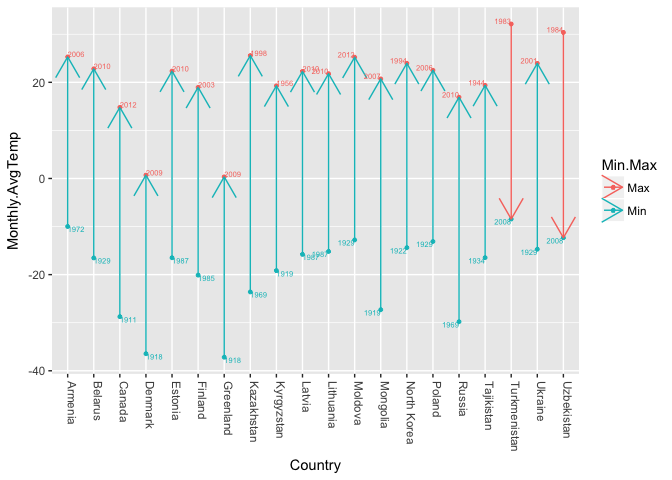
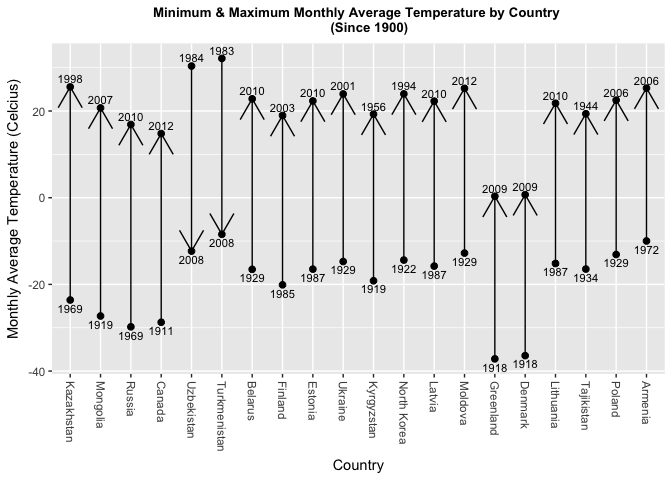
Q3i update: finalizing plot output

diff --git a/paper/CaseStudy2_Q3i.md b/paper/CaseStudy2_Q3i.md
@@ -8,11 +8,10 @@ Code used to download, tidy and merge the data
 
 ``` r
 dir<-getwd()
-#download the TEMP temp file and assign it to dataset name TEMPSubset
+#download the TEMP temp file and assign it to dataset name Temp_clean
 source(paste(dir,"/source/download_2.R",sep=""))
 #cleanup the data-turn the dates from strings to dates
 source(paste(dir,"/source/cleanup_2.R",sep=""))
-#source(paste(dir,"/source/merge_ED_GDP.R",sep=""))
 ```
 
 reformatting to generate top 20 temp diff between min and max (include more detail later)
@@ -67,26 +66,47 @@ T20MinMaxTemp2$Min.Max <- substr(T20MinMaxTemp2$Min.Max, 0, 3)
 names(T20MinMaxTemp1)[names(T20MinMaxTemp1) == 'Min.Date'] <- 'Date'
 names(T20MinMaxTemp2)[names(T20MinMaxTemp2) == 'Max.Date'] <- 'Date'
 
-# union 2 subsets together for one long formatted T20 dataframe
+# union 2 subsets together for one long formatted T20MinMaxTemp dataframe
 T20MinMaxTempLong <- union(T20MinMaxTemp1, T20MinMaxTemp2)
 
-# reorder to group by country and put two dates in order for plotting
+# reorder to group by Country and put two dates in order for plotting
 T20MinMaxTempLong <- T20MinMaxTempLong[order(T20MinMaxTempLong$TempDiff,T20MinMaxTempLong$Date), ]
+
+# reorder Country in descending order according to TempDiff
+T20MinMaxTempLong <- transform(T20MinMaxTempLong, Country=reorder(Country, -TempDiff) )
 ```
 
-plotting minmax point on chart by country, labeling points with year, and arrow indicating an increase or decrease (to order x axis by tempdiff, add title, and recolor)
-------------------------------------------------------------------------------------------------------------------------------------------------------------------------
+plotting minmax points on chart by country, labeling points with year, ranking x axis by TempDiff, and arrow indicating if Min/Max occurred first
+-------------------------------------------------------------------------------------------------------------------------------------------------
 
 ``` r
 # plotting T20MinMaxTempLong
 ggplot(T20MinMaxTempLong, aes(x=Country, y=Monthly.AvgTemp, 
-    color=Min.Max, group=Country, factor(TempDiff))) + 
-  geom_point(size=1)+geom_path(arrow=arrow()) + 
-  theme(axis.text.x = element_text(angle = -90, hjust = 0, vjust = 0)) + 
-  geom_text(aes(label=format(Date,'%Y'), hjust='inward', vjust='outward'), size = 2)
+    group=Country, factor(TempDiff))) + 
+  geom_point(size=2)+geom_path(arrow=arrow()) +
+  labs(y = 'Monthly Average Temperature (Celcius)',
+      title = 'Minimum & Maximum Monthly Average Temperature by Country 
+      (Since 1900)') +
+  theme(axis.text.x = element_text(angle = -90, hjust = 0, vjust = 0.5),
+        plot.title = element_text(size=10, face='bold', hjust=0.5)) + 
+  geom_text(data = filter_(T20MinMaxTempLong, ~Min.Max == 'Min'), 
+            aes(label=format(Date,'%Y'), hjust=0.5, vjust=1.5), size = 3) +
+  geom_text(data = filter_(T20MinMaxTempLong, ~Min.Max == 'Max'), 
+            aes(label=format(Date,'%Y'), hjust=0.5, vjust=-0.5), size =3)
 ```
 
 ![](CaseStudy2_Q3i_files/figure-markdown_github/T20plot-1.png)
 
-maybe add simple scatter plot with year in x axis to show time gaps between minmax
-----------------------------------------------------------------------------------
+scatter plot with year in x axis to show time gaps between minmax
+-----------------------------------------------------------------
+
+``` r
+ggplot(T20MinMaxTempLong, aes(x=Date, y=Monthly.AvgTemp, color=Min.Max)) + 
+  geom_point(size=2) +
+  labs(x = 'Year', y = 'Monthly Avgerage Temperature (Celcius)', 
+      title = 'Minimum & Maximum Monthly Average Temperature vs. Year (Since 1900)',
+      color = "") +
+  theme(plot.title = element_text(size=12, face='bold', hjust=0.5))
+```
+
+![](CaseStudy2_Q3i_files/figure-markdown_github/T20scatterplot-1.png)
